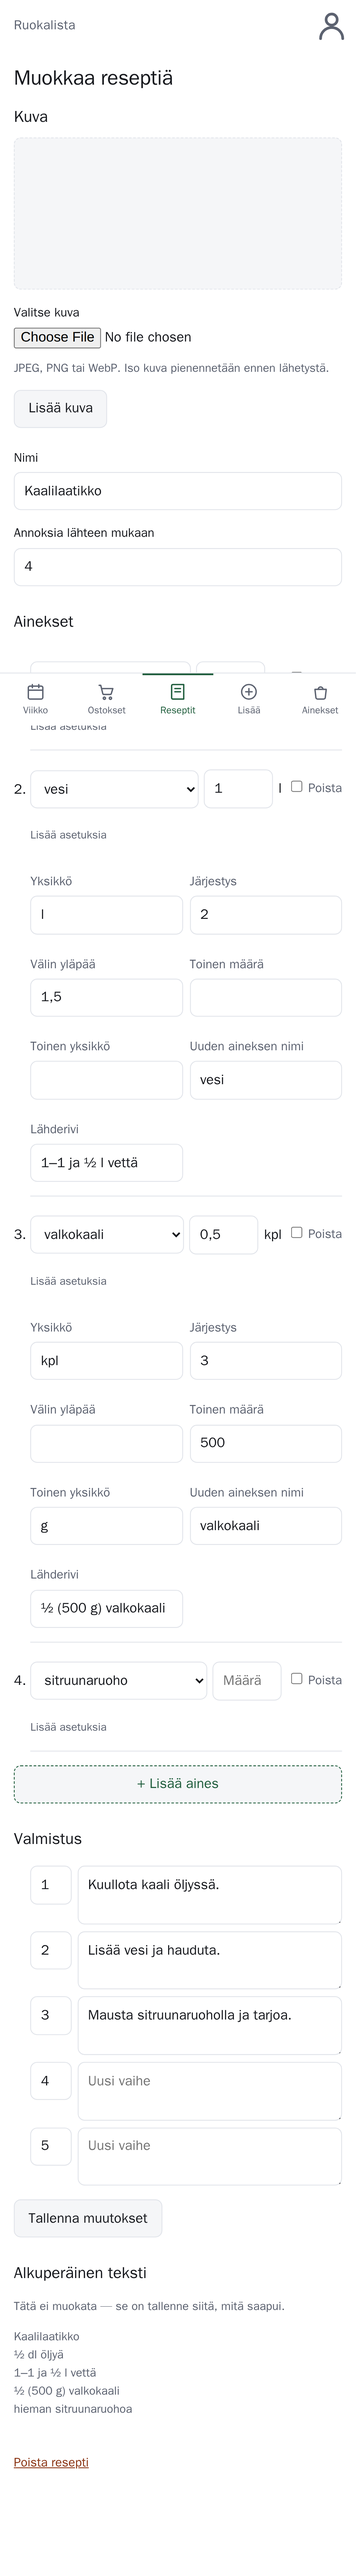
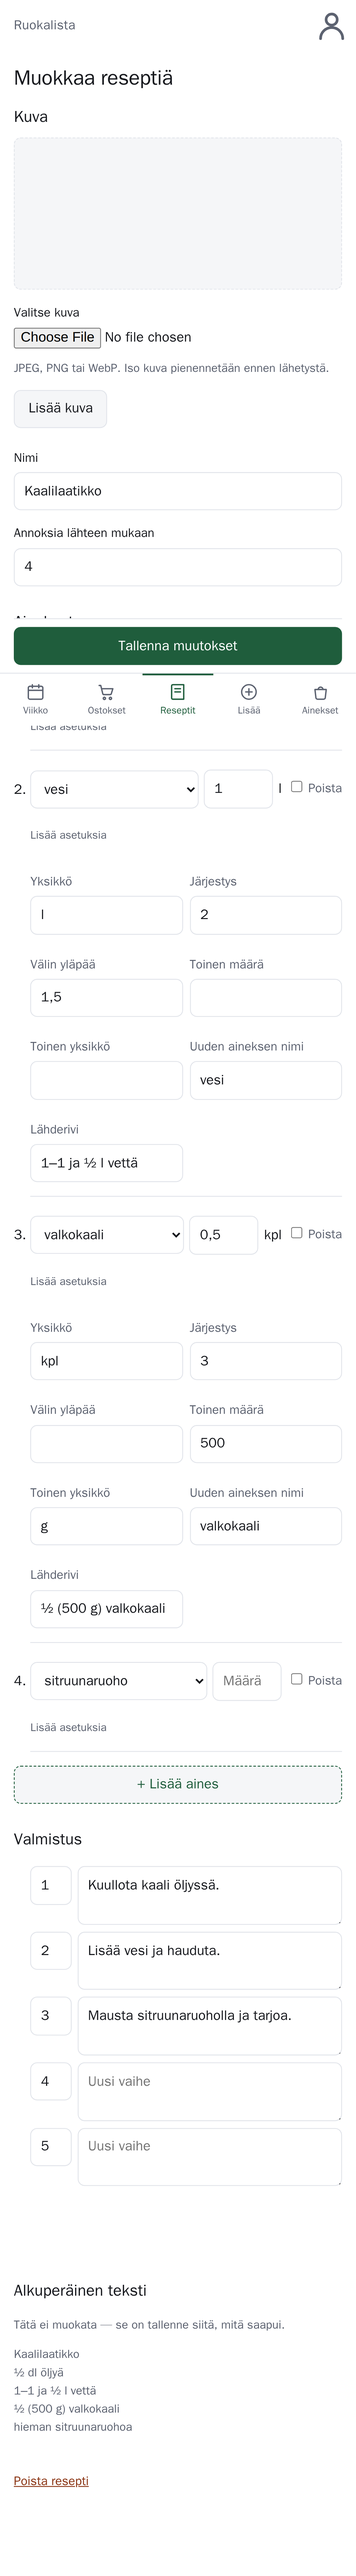
Let a dish written only in parts be saved, and keep Tallenna in reach
A dish written entirely in named parts keeps no ingredient line of its
own — every ingredient sits on a part, which is a recipe row in its own
right (ADR-0002). validateRecipe refused a recipe with no lines, so such
a dish could be opened in the editor and never saved.

The rule now takes a hasParts option and the editor passes it, so the
question asked is whether the recipe is empty rather than whether one of
the two places its content can live happens to be. The option is off by
default: an import's lines array carries every part's lines too, so an
empty one there really is an empty recipe, and saveRecipe and
batch-intake refuse exactly what they refused before.

The editor's save button becomes a sticky bar clear of the tab strip.
The form is long enough that on a phone Tallenna sat several screens
below whatever was being changed. CSS only — a browser without
position:sticky gets the old behaviour.

Closes #184

diff --git a/tests/editor.spec.ts b/tests/editor.spec.ts
@@ -439,3 +439,89 @@ async function putOnMenu(
     .click();
   await expect(page).toHaveURL(/\/\?week=/);
 }
+
+/**
+ * A dish written entirely in named parts (issue #184). Every ingredient sits on
+ * a part, which is a recipe row of its own, so the dish itself has none — and
+ * that is a whole recipe, not an empty one.
+ */
+test("a dish whose ingredients all sit on its parts can still be saved", async ({
+  page,
+}) => {
+  // Lasagne has two parts and exactly one line of its own, the lasagne sheets.
+  await page.goto("/recipes/3/edit");
+  await expect(page.locator(".line")).toHaveCount(1);
+
+  await openMore(page.locator(".line").first());
+  await page.locator(".line").first().locator("input[name$=remove]").check();
+  await page.locator("#title").fill("Lasagne ilman levyjä");
+  await page.getByRole("button", { name: "Tallenna muutokset" }).click();
+
+  await expect(page.locator(".refused")).toHaveCount(0);
+  await expect(page).toHaveURL(/\/recipes\/3$/);
+  await expect(page.getByRole("heading", { name: "Lasagne ilman levyjä" })).toBeVisible();
+
+  // The dish now carries nothing of its own; both parts are untouched.
+  const parts = page.locator(".part");
+  await expect(parts).toHaveCount(2);
+  await expect(parts.nth(0)).toContainText("400 g");
+  await expect(parts.nth(1)).toContainText("5 dl");
+
+  // And it opens again and saves again, which is what was actually broken.
+  await page.goto("/recipes/3/edit");
+  await expect(page.locator(".line")).toHaveCount(0);
+  await page.locator("#title").fill("Lasagne");
+  await page.getByRole("button", { name: "Tallenna muutokset" }).click();
+  await expect(page).toHaveURL(/\/recipes\/3$/);
+  await expect(page.getByRole("heading", { name: "Lasagne" })).toBeVisible();
+});
+
+test("a recipe with no parts still needs at least one ingredient", async ({
+  page,
+}) => {
+  // Öljykastike has two lines, no parts, and one step nothing is linked to.
+  await page.goto("/recipes/2/edit");
+  for (const index of [0, 1]) {
+    const line = page.locator(".line").nth(index);
+    await openMore(line);
+    await line.locator("input[name$=remove]").check();
+  }
+  await page.getByRole("button", { name: "Tallenna muutokset" }).click();
+
+  await expect(page.locator(".refused")).toContainText(
+    "Reseptissä pitää olla ainakin yksi aines tai osa.",
+  );
+
+  // Nothing was written: both lines are still there.
+  await page.goto("/recipes/2");
+  await expect(page.locator(".lines li")).toHaveCount(2);
+});
+
+test("Tallenna stays on screen while the long editor is scrolled", async ({
+  page,
+}) => {
+  await page.setViewportSize({ width: 390, height: 720 });
+  await page.goto("/recipes/1/edit");
+
+  const save = page.getByRole("button", { name: "Tallenna muutokset" });
+  const bar = page.locator(".editor-actions");
+
+  // The form is taller than the phone, so without the sticky bar the button
+  // would be somewhere far below the fold.
+  const pageHeight = await page.evaluate(() => document.body.scrollHeight);
+  expect(pageHeight).toBeGreaterThan(720);
+
+  await expect(save).toBeInViewport();
+  // Clear of the fixed tab strip, so the tabs never cover it.
+  const barBox = await bar.boundingBox();
+  const tabsBox = await page.locator(".tabs").boundingBox();
+  expect(barBox).not.toBeNull();
+  expect(tabsBox).not.toBeNull();
+  expect(barBox!.y + barBox!.height).toBeLessThanOrEqual(tabsBox!.y + 1);
+
+  // Still there once the whole form has been scrolled through, and it saves.
+  await page.mouse.wheel(0, pageHeight);
+  await expect(save).toBeInViewport();
+  await save.click();
+  await expect(page).toHaveURL(/\/recipes\/1$/);
+});

diff --git a/tests/screenshots.spec.ts b/tests/screenshots.spec.ts
@@ -730,6 +730,56 @@ test.describe("signed in", () => {
     await capture(page, { path: `${SHOTS}/11-editor.png`, fullPage: true });
   });
 
+  /**
+   * Issue #184's two halves, both of them viewport shots rather than full-page
+   * ones: a full-page capture paints a sticky element at the end of its
+   * container, which is exactly the position this change exists to stop it
+   * being in.
+   */
+  test("the editor's save bar rides the scroll on a phone", async ({ page }) => {
+    await page.setViewportSize({ width: 390, height: 720 });
+    await page.goto("/recipes/1/edit");
+    await page.getByRole("heading", { name: "Ainekset" }).scrollIntoViewIfNeeded();
+
+    // The intended state, asserted before the shutter: the ingredient rows are
+    // what is being looked at, and Tallenna is on screen anyway.
+    await expect(page.locator(".line").first()).toBeInViewport();
+    await expect(
+      page.getByRole("button", { name: "Tallenna muutokset" }),
+    ).toBeInViewport();
+    await capture(page, { path: `${SHOTS}/65-editor-save-bar.png` });
+  });
+
+  test("editing a dish that has no ingredients of its own", async ({ page }) => {
+    await page.setViewportSize({ width: 390, height: 720 });
+
+    // Take the lasagne's one own line away, leaving a dish whose ingredients
+    // all sit on its two parts.
+    await page.goto("/recipes/3/edit");
+    await page.locator(".line").first().locator("> details.line-more > summary").click();
+    await page.locator(".line").first().locator("input[name$=remove]").check();
+    await page.getByRole("button", { name: "Tallenna muutokset" }).click();
+    await expect(page).toHaveURL(/\/recipes\/3$/);
+
+    // The editor of that dish: no ingredient rows at all, and it opens fine.
+    await page.goto("/recipes/3/edit");
+    await expect(page.locator(".line")).toHaveCount(0);
+    await page.getByRole("heading", { name: "Ainekset" }).scrollIntoViewIfNeeded();
+    // A viewport shot again, for the same reason as the one above.
+    await capture(page, { path: `${SHOTS}/66-parts-only-editor.png` });
+
+    // Saved, not refused: the old "Reseptissä pitää olla ainakin yksi aines."
+    // is what this shot is here to show the absence of.
+    await page.getByRole("button", { name: "Tallenna muutokset" }).click();
+    await expect(page).toHaveURL(/\/recipes\/3$/);
+    await expect(page.locator(".refused")).toHaveCount(0);
+    await expect(page.locator(".part")).toHaveCount(2);
+    await capture(page, { path: `${SHOTS}/67-parts-only-dish.png`, fullPage: true });
+
+    // This spec seeds once for the whole file, so put back what was removed.
+    reseed();
+  });
+
   test("a removal the steps still argue with", async ({ page }) => {
     await page.goto("/recipes/1/edit");
     // A fifth row asked for by hand, so the shot shows the add button having

diff --git a/src/recipe-save.ts b/src/recipe-save.ts
@@ -142,7 +142,11 @@ export async function saveRecipe(
  *
  * source_text and source_route are not editable and are not touched here. Parts
  * are recipes of their own and are edited on their own screens, so this leaves
- * them alone too.
+ * them alone too — but whether there are any is still this call's business,
+ * because a dish whose ingredients all live on its parts has none of its own
+ * and must still be saveable (issue #184). The caller says so rather than this
+ * function counting them: the editor has already loaded the recipe's parts, and
+ * a second query would only ask the same question again.
  */
 export async function replaceRecipe(
   db: D1Database,
@@ -150,8 +154,9 @@ export async function replaceRecipe(
   recipeId: number,
   expectedRevision: number,
   recipe: RecipeToSave,
+  options: ValidateOptions = {},
 ): Promise<void> {
-  validateRecipe(recipe);
+  validateRecipe(recipe, options);
   if (!Number.isSafeInteger(recipeId) || recipeId <= 0) {
     throw new StaleRecipe("Reseptiä ei enää ole.");
   }
@@ -571,7 +576,26 @@ async function resolveIngredients(
   return { newIngredients, lines };
 }
 
-export function validateRecipe(recipe: RecipeToSave): void {
+export interface ValidateOptions {
+  /**
+   * Whether this recipe already has parts of its own (issue #184).
+   *
+   * A dish written entirely in named parts keeps nothing but a title, its
+   * method and its parts — every ingredient sits on a part, which is a recipe
+   * row of its own (ADR-0002). Such a dish is not empty, so the one-ingredient
+   * rule below does not apply to it.
+   *
+   * False on an import, and rightly so: there the parts do not exist yet and a
+   * draft's `lines` carries every part's lines along with the dish's, so an
+   * empty array there really is an empty recipe.
+   */
+  hasParts?: boolean;
+}
+
+export function validateRecipe(
+  recipe: RecipeToSave,
+  options: ValidateOptions = {},
+): void {
   if (recipe.title.trim() === "") {
     throw new SaveRefused("Reseptillä pitää olla nimi.");
   }
@@ -581,8 +605,8 @@ export function validateRecipe(recipe: RecipeToSave): void {
   ) {
     throw new SaveRefused("Annosmäärän pitää olla positiivinen kokonaisluku.");
   }
-  if (recipe.lines.length === 0) {
-    throw new SaveRefused("Reseptissä pitää olla ainakin yksi aines.");
+  if (recipe.lines.length === 0 && options.hasParts !== true) {
+    throw new SaveRefused("Reseptissä pitää olla ainakin yksi aines tai osa.");
   }
   if (recipe.lines.some((line) => line.ingredient.kind === "unanswered")) {
     throw new SaveRefused("Jokaiselle uudelle ainekselle pitää vastata.");

diff --git a/src/recipe-editor.ts b/src/recipe-editor.ts
@@ -196,7 +196,10 @@ export async function saveEditForm(
       structuredBy: null,
       steps: readSteps(form),
       lines: readLines(form, lineCount),
-    });
+    },
+    // A dish written entirely in named parts has no ingredient lines of its
+    // own, and it is still a whole recipe (issue #184).
+    { hasParts: recipe.parts.length > 0 });
   } catch (error) {
     if (!(error instanceof SaveRefused) && !(error instanceof FormRefused)) {
       throw error;
@@ -616,7 +619,13 @@ function editorForm(
         )}
       </ol>
 
-      <button type="submit">Tallenna muutokset</button>
+      <!-- Sticky rather than at the end of the form: the editor is long enough
+           that on a phone the save button used to be several screens below
+           whatever was being changed (issue #184). It rides just above the tab
+           strip while the form scrolls and settles here at the end. -->
+      <div class="editor-actions">
+        <button type="submit" class="primary">Tallenna muutokset</button>
+      </div>
     </form>
 
     <h2>Alkuperäinen teksti</h2>

diff --git a/src/html.ts b/src/html.ts
@@ -549,6 +549,20 @@ const STYLES = `
     padding: 0; margin: -1px; border: 0; overflow: hidden; clip: rect(0 0 0 0);
   }
 
+  /* The editor's save bar (issue #184). It sticks to the bottom of the screen,
+     clear of the fixed tab strip, so Tallenna is one tap away wherever you are
+     in a long form; once the end of the form scrolls into view the bar simply
+     sits there. A browser without position:sticky gets exactly the old
+     behaviour, which is why this needs no script. */
+  .editor-actions {
+    position: sticky; z-index: 1;
+    bottom: calc(var(--tabs-height) + env(safe-area-inset-bottom));
+    display: flex; gap: .5rem;
+    padding: .6rem 0; margin-top: 1rem;
+    background: var(--bg); border-top: 1px solid var(--edge);
+  }
+  .editor-actions button { flex: 1; }
+
   .line-conflicts {
     padding: .7rem .8rem; margin: 0 0 1rem;
     background: var(--surface); border: 1px solid var(--accent);

diff --git a/docs/codebase/recipes.md b/docs/codebase/recipes.md
@@ -36,6 +36,34 @@ See `docs/adr/0002-a-part-is-a-recipe.md`, including what it deliberately does
 not decide — scaling parts with the parent is still open (parts are shown
 exactly as written, unscaled, alongside a scaled parent).
 
+### A dish can own nothing but its parts (issue #184)
+
+Proposed here. Once the parts are recipe rows of their own, a dish written
+entirely in named parts keeps no ingredient line at all — only a title, its
+method and its parts. `validateRecipe` (`src/recipe-save.ts`) refuses a recipe
+with no lines, which left that dish openable in the editor and impossible to
+save: *Reseptissä pitää olla ainakin yksi aines.* This change gives the
+function a `hasParts` option and the editor passes `recipe.parts.length > 0`,
+so the rule asks the question it meant to ask — is this recipe empty? — rather
+than counting only one of the two places a recipe's content can be. The
+refusal's wording moves with it: *Reseptissä pitää olla ainakin yksi aines tai
+osa.*
+
+The option is off by default, which is what keeps the import path honest. A
+draft's `lines` carries every part's lines along with the dish's, because the
+parts do not exist yet and a `section` name is all that marks them — so an
+empty array there really is an empty recipe. `saveRecipe` and
+`src/batch-intake.ts` therefore refuse exactly what they refused before, and
+only the editor waives the rule, only for a recipe whose parts it has already
+loaded. Passing the answer in rather than counting the parts inside
+`replaceRecipe` avoids a second query for something the editor knows.
+
+The editor's **Tallenna muutokset** moves into a sticky bar in the same change
+(`.editor-actions` in `src/html.ts`), because the editor is long enough that on
+a phone the button sat several screens below whatever was being changed. It is
+CSS only — `position: sticky` clear of the fixed tab strip — so a browser
+without it gets today's behaviour and nothing on this path needs a script.
+
 ### Cooking order has a phase (issue #58, decision #50, ADR-0003)
 
 Parent-level content on a multipart dish — a line or step that belongs to the

diff --git a/docs/screenshots/README.md b/docs/screenshots/README.md
@@ -76,3 +76,6 @@ commit what it wrote:
 | `62-package-sizes.png` | Proposed same ingredient after a second package size was added from the row itself, each with its stored size and a way to drop it |
 | `63-cast-receiver.png` | Proposed 16:9 Cast receiver with the recipe title and multiplier above ingredients and preparation shown together |
 | `64-cast-receiver-long.png` | Proposed 20-line recipe on a 1024×600 receiver: the ingredients flow into two sub-columns instead of shrinking to the scale floor (#180) |
+| `65-editor-save-bar.png` | Proposed editor on a phone, scrolled to the ingredient rows: **Tallenna muutokset** rides the scroll just above the tab strip instead of waiting at the end of the form (#184) |
+| `66-parts-only-editor.png` | Proposed editor of a dish written entirely in named parts — no ingredient rows of its own, and no refusal (#184) |
+| `67-parts-only-dish.png` | The same dish after saving: both parts and their ingredients intact, the dish itself carrying only its method |
